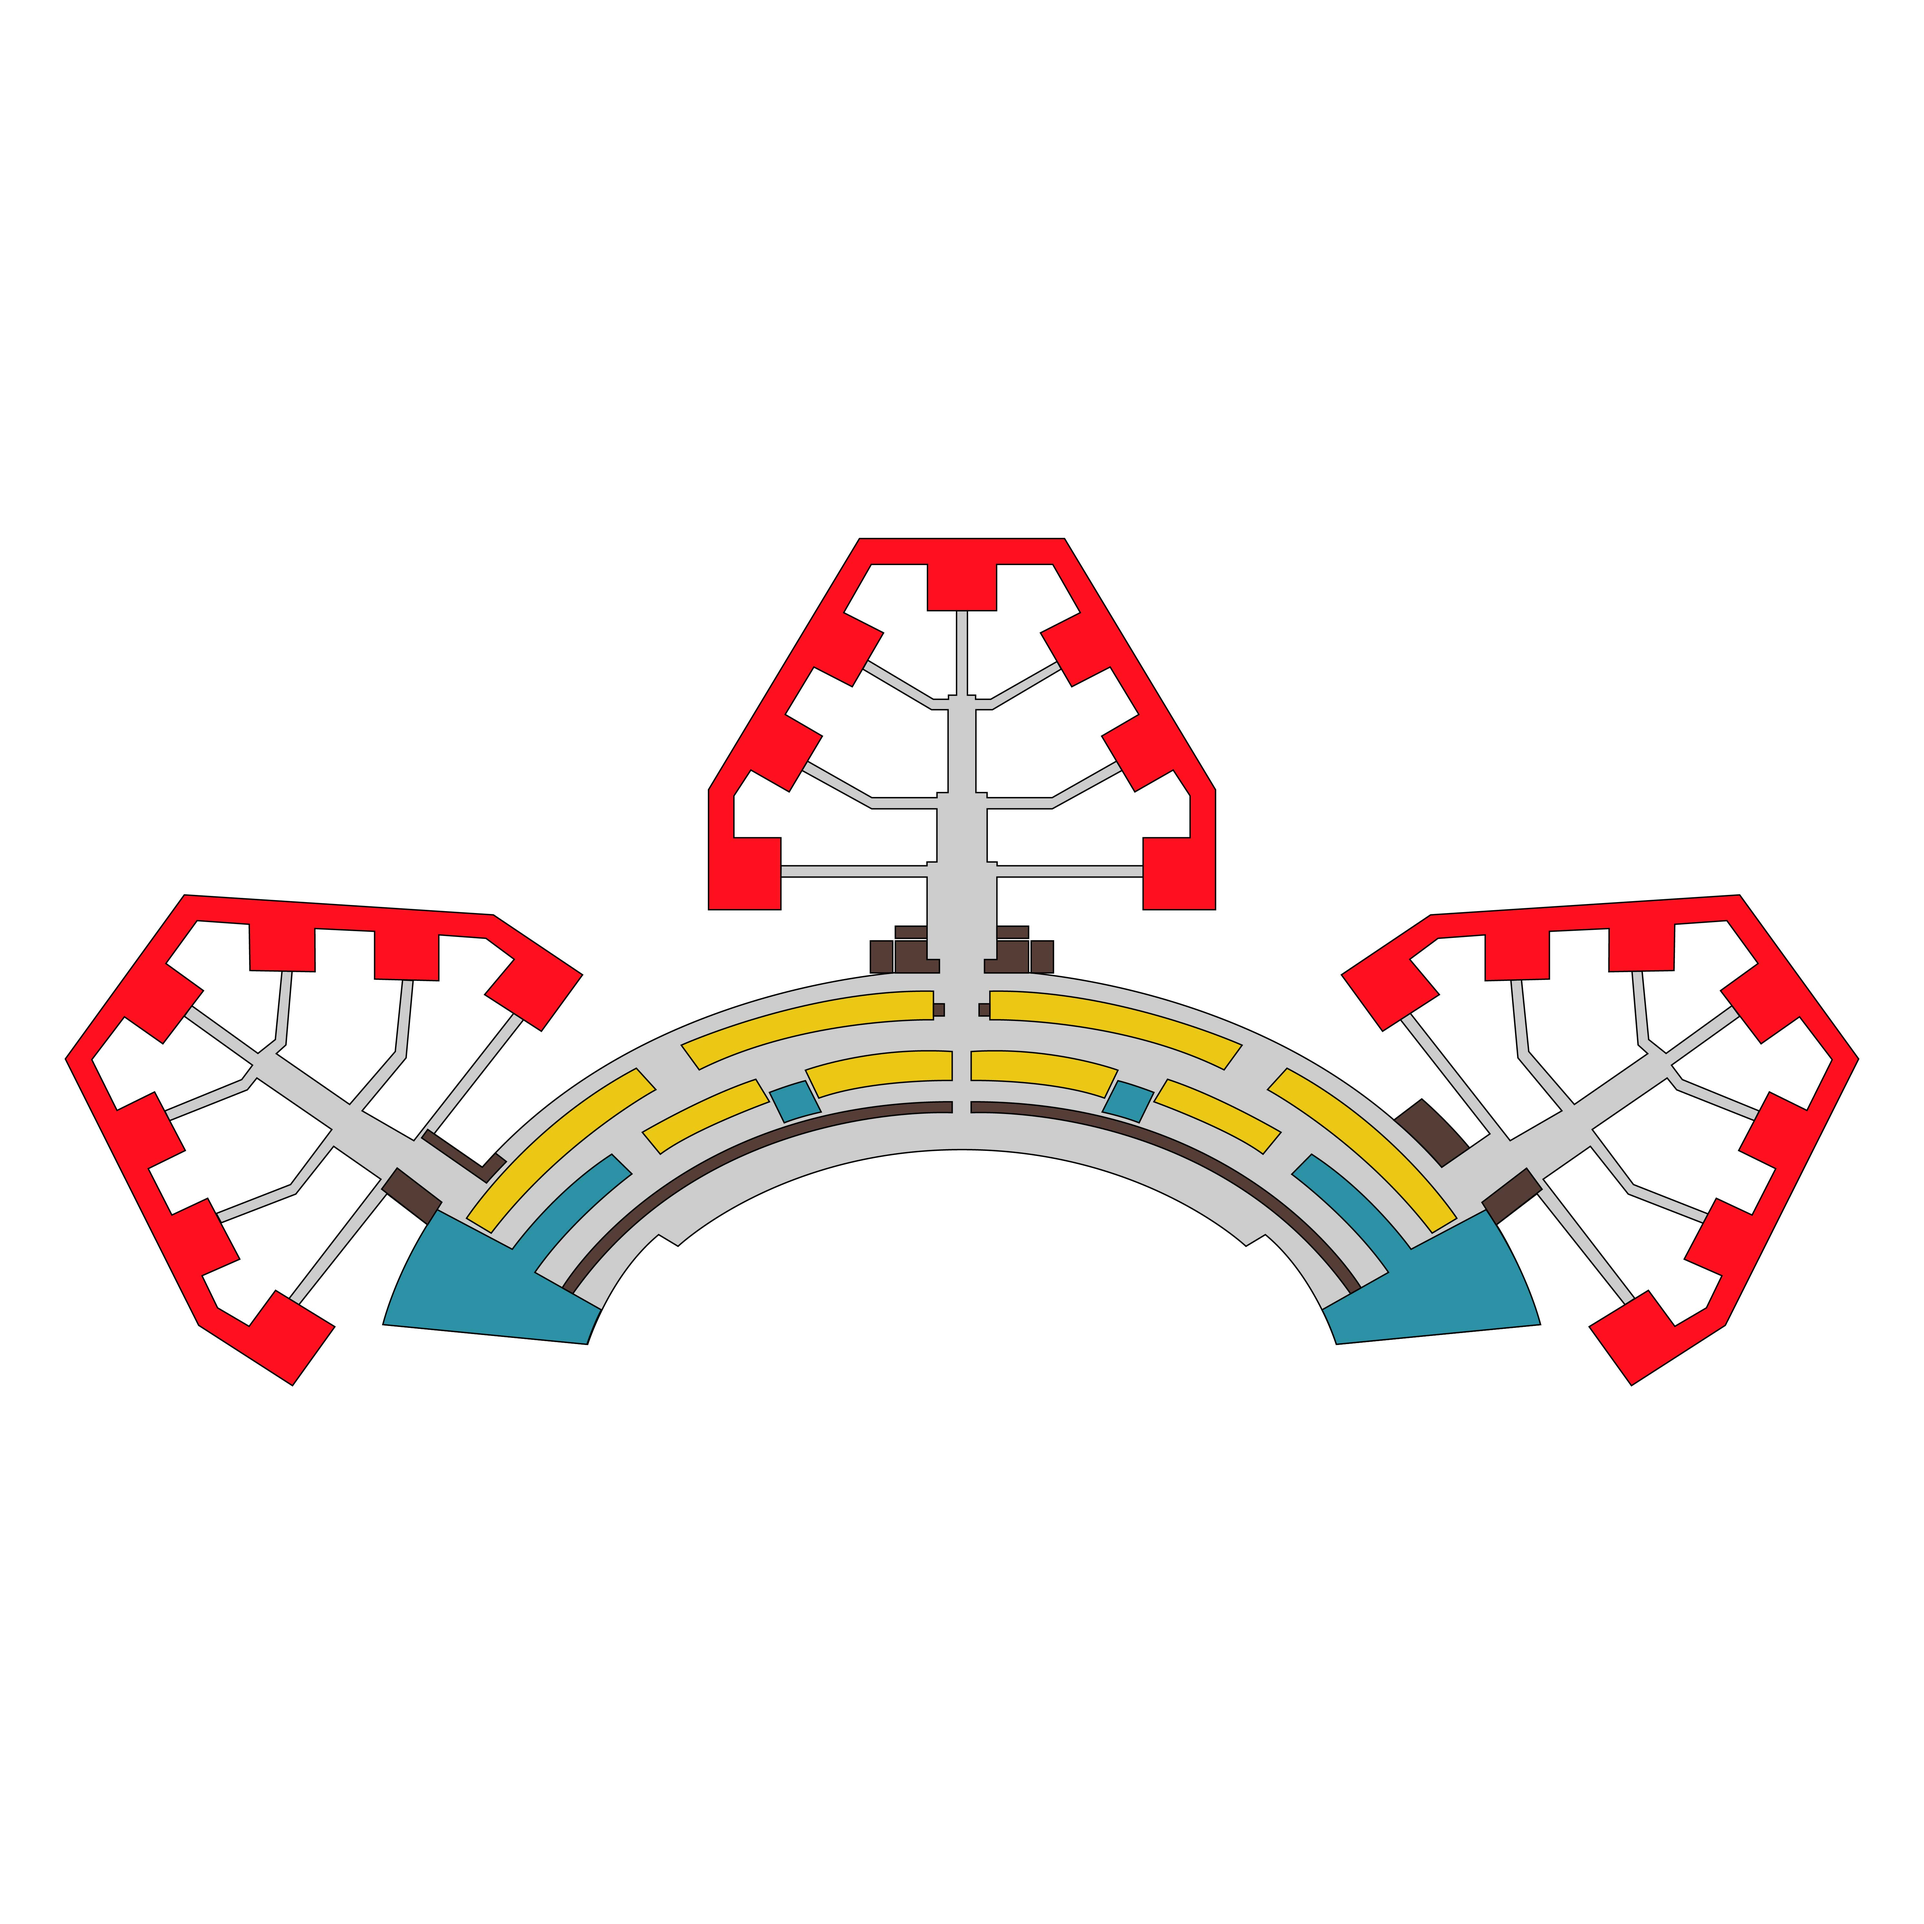
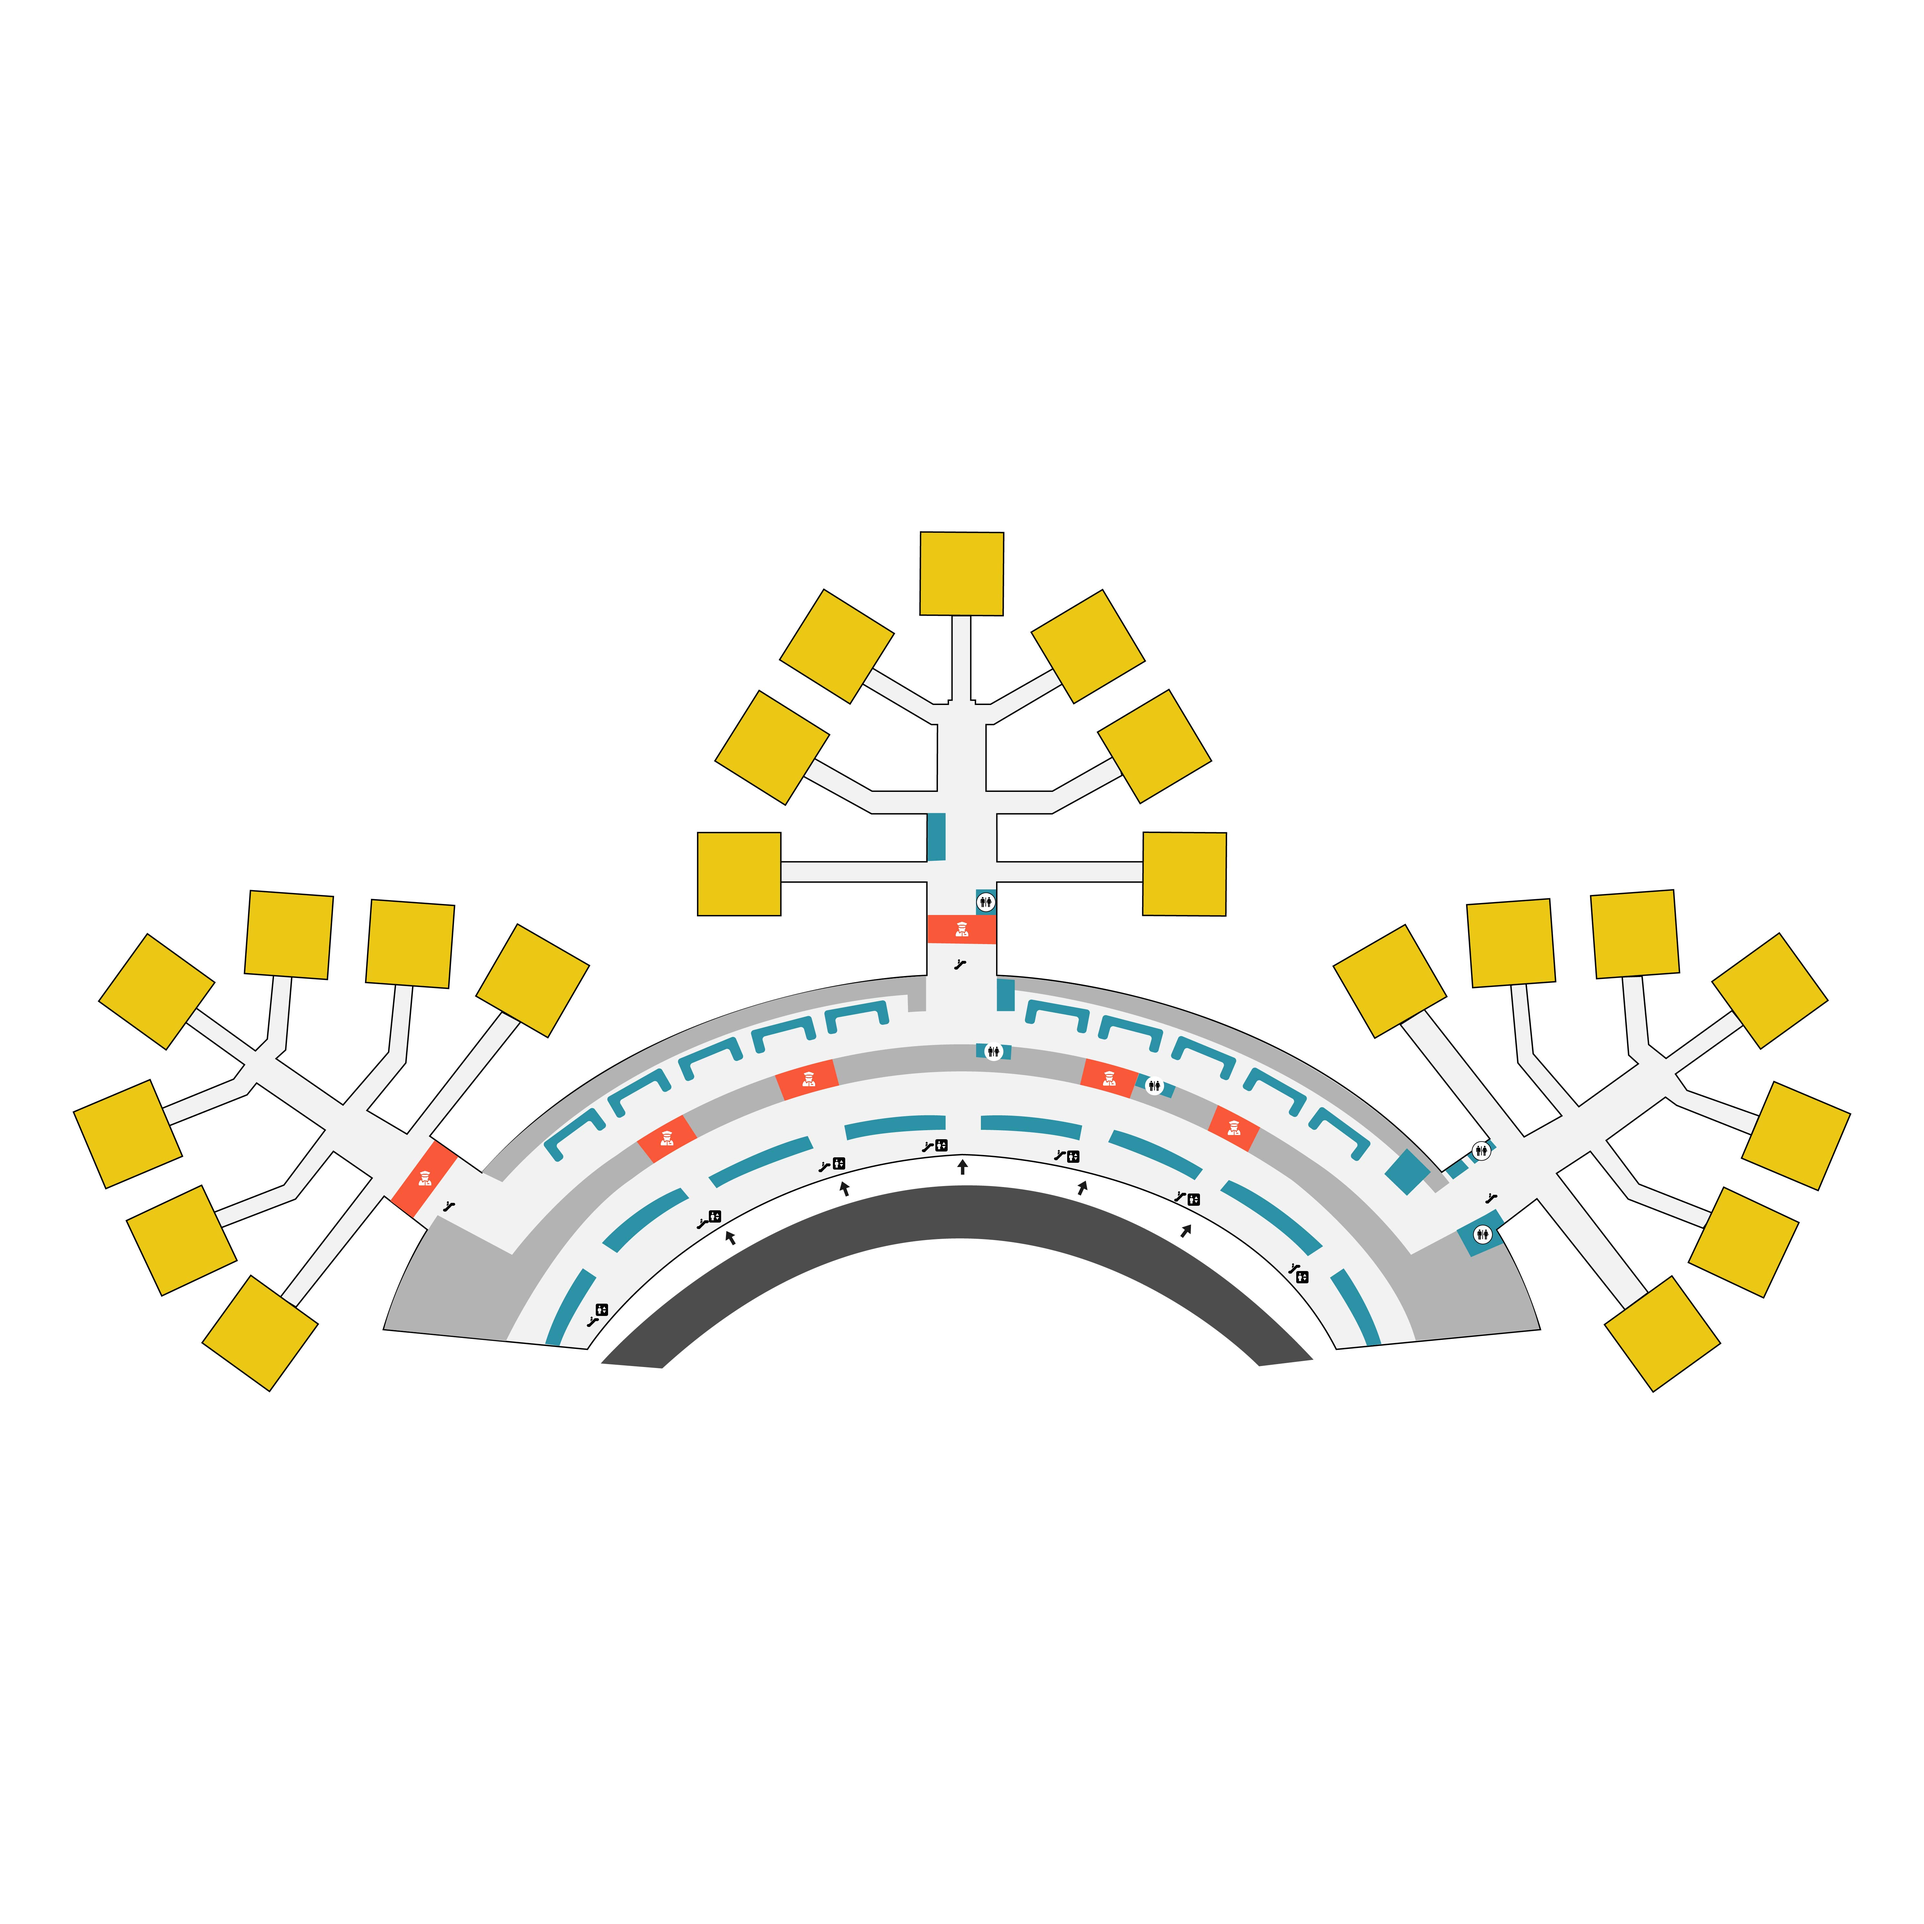
Update Map and Path

Changed region(s): [[0.0312, 0.2499, 0.9683, 0.7184]]

diff --git a/lib/map/map_pick.dart b/lib/map/map_pick.dart
@@ -1,3 +1,4 @@
+import 'package:angkasapp/map/map_overlay.dart';
 import 'package:flutter/cupertino.dart';
 import 'package:flutter/foundation.dart';
 import 'package:flutter/material.dart';
@@ -240,6 +241,26 @@ class _MapPickState extends State<MapPick> {
               child: Center(
                   child: Text(
                 "Find Location",
+                style: TextStyle(
+                    color: Colors.white,
+                    fontWeight: FontWeight.w500,
+                    fontSize: 18),
+              )),
+            ),
+          ),
+          GestureDetector(
+            onTap: () => Navigator.push(context,
+                MaterialPageRoute(builder: (context) => const MapOverlay())),
+            child: Container(
+              margin: EdgeInsets.symmetric(horizontal: 18.0, vertical: 15.0),
+              padding: EdgeInsets.all(15.0),
+              width: MediaQuery.of(context).size.width,
+              decoration: BoxDecoration(
+                  color: Colors.deepOrange.shade600,
+                  borderRadius: BorderRadius.circular(8)),
+              child: Center(
+                  child: Text(
+                "Map Navigate",
                 style: TextStyle(
                     color: Colors.white,
                     fontWeight: FontWeight.w500,

diff --git a/lib/map/map_overlay.dart b/lib/map/map_overlay.dart
@@ -51,9 +51,9 @@ class MapOverlay extends StatelessWidget {
                   maxScale: 7.0,
                   child: Stack(
                     children: [
-                      Image.asset(pT2L2),
+                      Image.asset(pT2L1),
                       FutureBuilder<DotMap>(
-                        future: createDotMap(pT2L2p),
+                        future: createDotMap(pT2L1p),
                         builder: (context, snapshot) {
                           if (snapshot.connectionState ==
                               ConnectionState.done) {

diff --git a/lib/home/home_screen.dart b/lib/home/home_screen.dart
@@ -59,8 +59,8 @@ class _HomePageState extends State<HomePage> {
                   borderRadius: BorderRadius.circular(8), // Border radius
                 ),
               ),
-              onPressed: () => Navigator.push(context,
-                  MaterialPageRoute(builder: (context) => MapOverlay())),
+              onPressed: () => Navigator.push(
+                  context, MaterialPageRoute(builder: (context) => MapPick())),
               child: const Text(
                 'Airport Map',
                 style: TextStyle(fontSize: 20),

diff --git a/lib/map_path_set.dart b/lib/map_path_set.dart
@@ -60,12 +60,12 @@ bool isPath(int pixel) {
   int blue = img.getBlue(pixel);
 
   // Define your target color values
-  int targetRed = 204;
-  int targetGreen = 204;
-  int targetBlue = 204;
+  int targetRed = 0;
+  int targetGreen = 255;
+  int targetBlue = 43;
 
   // Define a tolerance range for each color channel
-  int tolerance = 0;
+  int tolerance = 10;
 
   // Check if the pixel is a path based on the tolerance range
   if ((red >= targetRed - tolerance && red <= targetRed + tolerance) &&

diff --git a/lib/const.dart b/lib/const.dart
@@ -10,6 +10,8 @@ const String pT3LC = 'assets/T3_3_CheckInArea.jpg';
 const String pT3GPD = 'assets/T3_4_GedungParkir&ExhibitionHallDomestic_M.jpg';
 const String pT3GPI =
     'assets/T3_5_GedungParkir&ExhibitionHallInternational.jpg';
+
+const String pT2L1p = 'assets/T2_L1_Path.png';
 const String pT2L2p = 'assets/T2_L2_Path.png';
 
 const String baseAirlabsURL = "https://airlabs.co/api/v9";

diff --git a/lib/a_star_algo.dart b/lib/a_star_algo.dart
@@ -525,7 +525,7 @@ void aStarTemp() {
 }
 
 aStarTry() async {
-  List<List<int>> grid = await setMapList(pT2L2p);
+  List<List<int>> grid = await setMapList(pT2L1p);
   Pair src = const Pair(242, 55);
   Pair dest = const Pair(240, 302);
 
